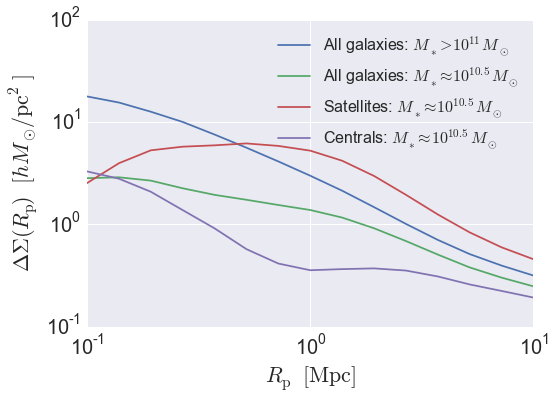
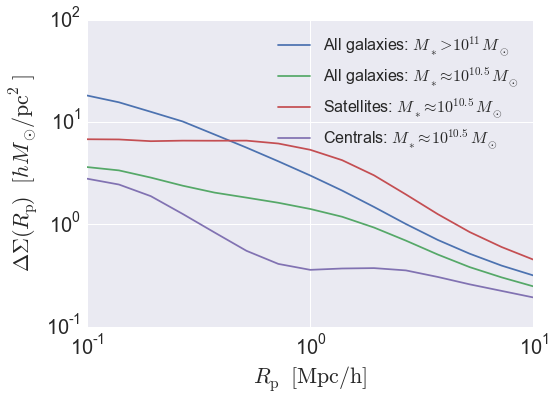
Updated delta_sigma tutorial to explicitly show little h units in figure x-axis, as suggested by @surhud

diff --git a/docs/quickstart_and_tutorials/tutorials/catalog_analysis/galcat_analysis/basic_examples/clustering_examples/galaxy_catalog_analysis_tutorial3.rst b/docs/quickstart_and_tutorials/tutorials/catalog_analysis/galcat_analysis/basic_examples/clustering_examples/galaxy_catalog_analysis_tutorial3.rst
@@ -111,9 +111,10 @@ Calculate :math:`\Delta\Sigma(R_{\rm p})`
                          rp_bins, pi_max, period=model.mock.Lbox)
 
 
-Recall that all Halotools length units are Mpc/h, but the conventional units to 
-plot :math:`\Delta\Sigma` are :math:`M_{\odot}/pc^2`, so now we convert units and 
-plot the results. 
+Recall that all Halotools length units are comoving and in Mpc/h. However, the conventional units to 
+plot :math:`\Delta\Sigma` are :math:`h*M_{\odot}/pc^2`, since in those units the galaxy-galaxy 
+lensing signal is roughly order unity for typical :math:`L_{\ast}` galaxy samples. 
+So now we convert units and plot the results. 
 
 .. code:: python
 
@@ -139,7 +140,7 @@ Plot the results
     plt.loglog()
     plt.xticks(fontsize=20)
     plt.yticks(fontsize=20)
-    plt.xlabel(r'$R_{\rm p} $  $\rm{[Mpc]}$', fontsize=22)
+    plt.xlabel(r'$R_{\rm p} $  $\rm{[Mpc / h]}$', fontsize=22)
     plt.ylabel(r'$\Delta\Sigma(R_{\rm p})$  $[h M_{\odot} / {\rm pc}^2]$', fontsize=22)
     plt.legend(loc='best', fontsize=16)
 
